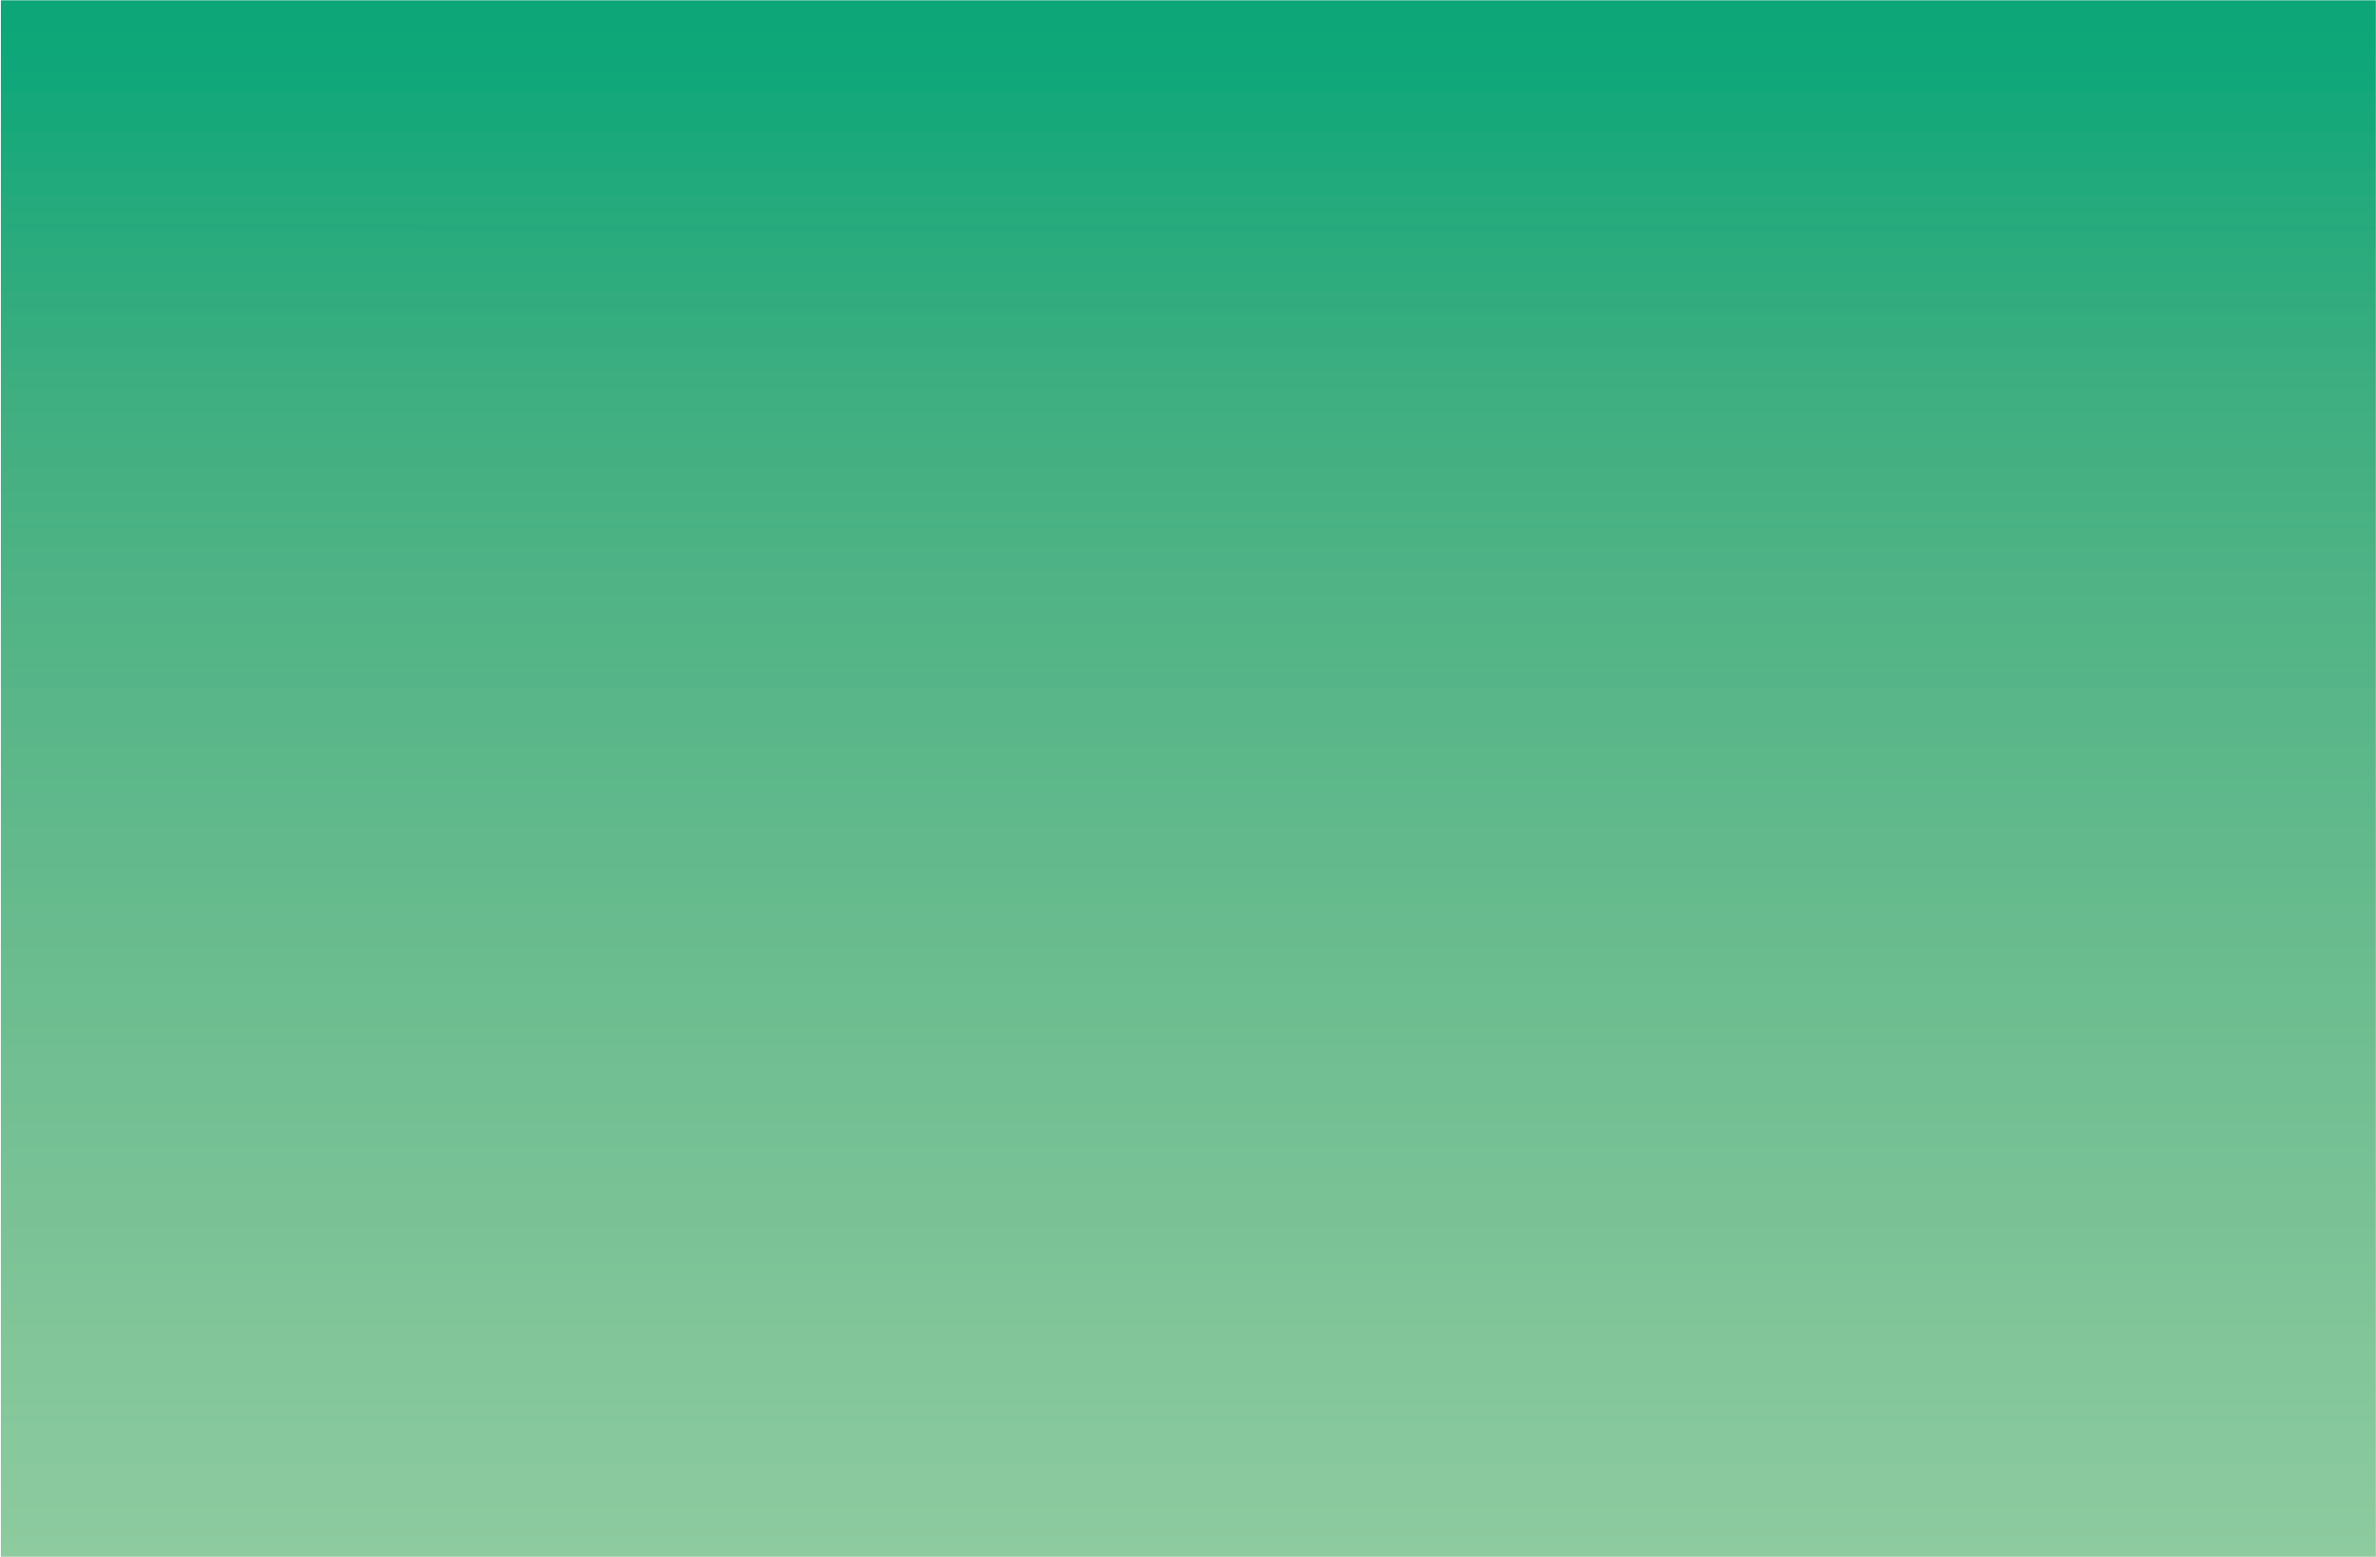
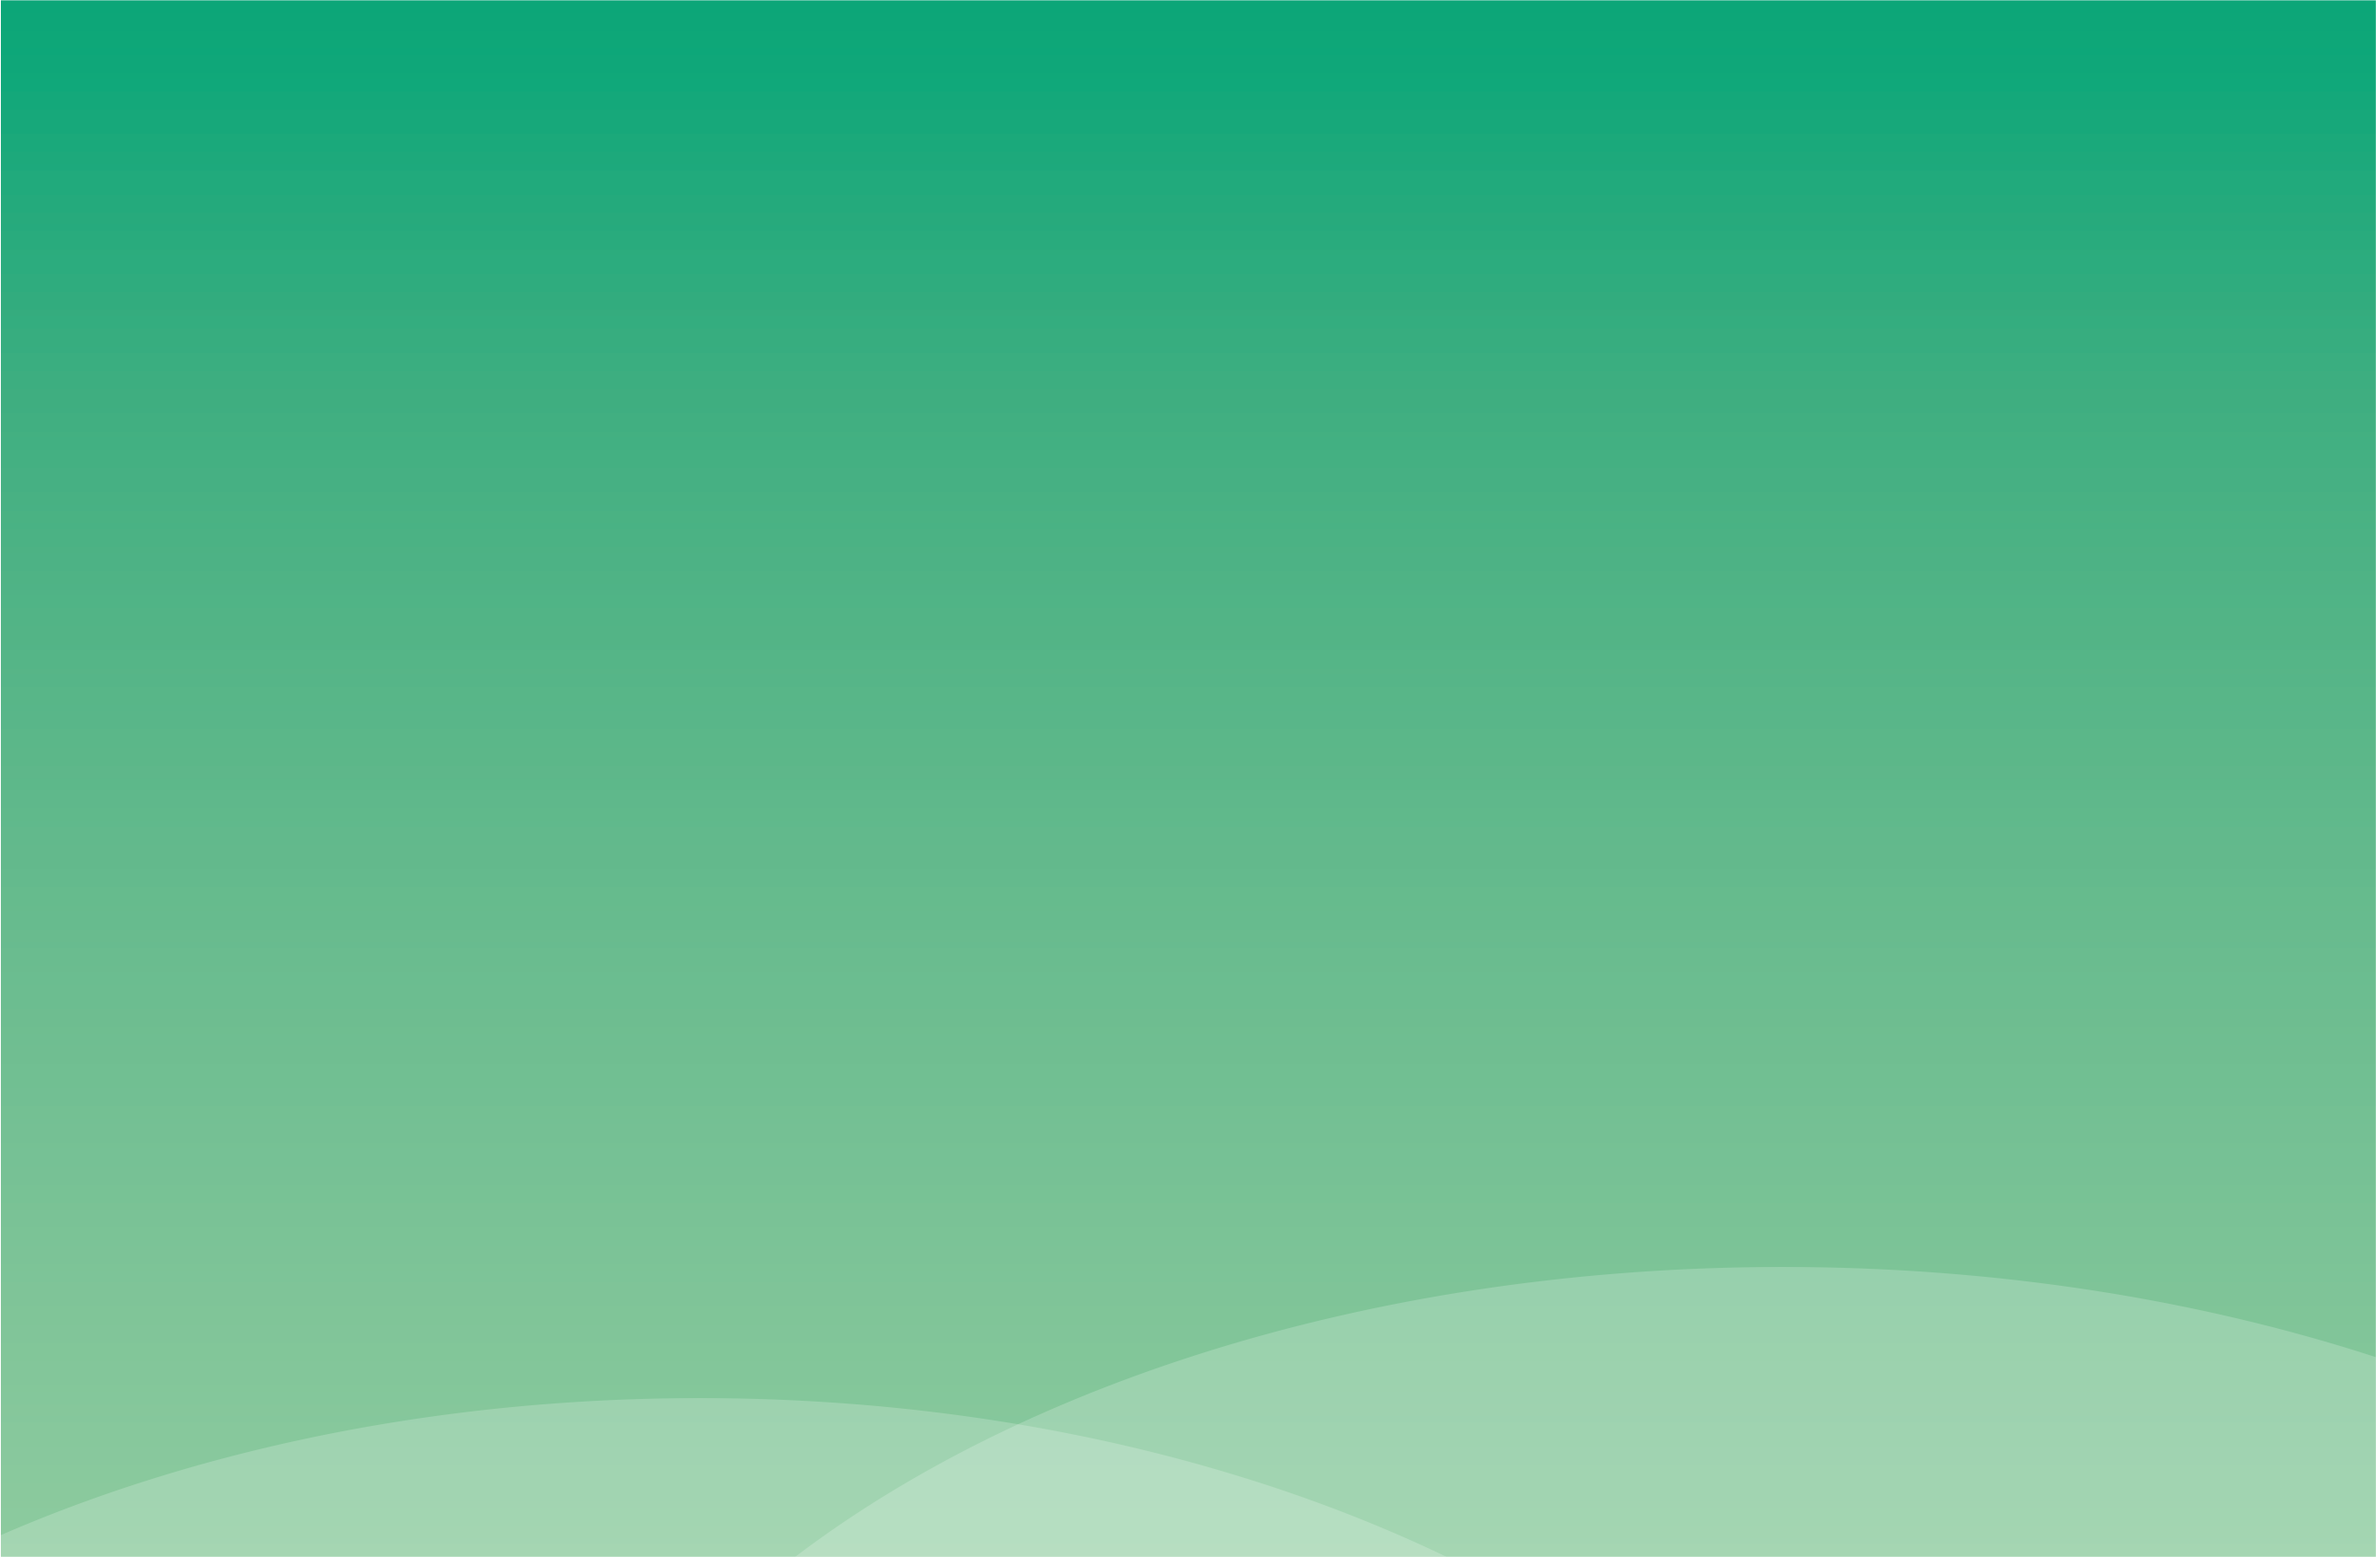
'修改康佳冰箱京东微联H5页面符合京东微联H5规范'

Changed region(s): [[0.3098, 0.8097, 1.0, 1.0], [0.2788, 0.872, 0.3098, 0.9031]]

diff --git a/css/vue-stone.css b/css/vue-stone.css
@@ -1,2 +1,2 @@
[2 lines of base64/hex data omitted]
 /*# sourceMappingURL=vue-stone.css.map*/

diff --git a/index.html b/index.html
@@ -27,7 +27,8 @@
 
 <style>
   body {
-    font-size: 16px;
+    font-size: 14px;
+    overflow: auto;
   }
 </style>
 
@@ -39,30 +40,32 @@
       <ul>
         <li>
           <p class="transparent-font">冷藏室℃</p>
-          <span class="header-index">{{coldRoomValue}}</span>
+          <span>{{coldRoomValue}}</span>
         </li>
         <li>
           <p class="transparent-font">空气质量</p>
-          <div class="air-quality" v-if="status === 'green'">清新</div>
-          <div class="air-quality" v-if="status === 'orange'">良好</div>
-          <div class="air-quality" v-if="status === 'red'">异常</div>
+          <div v-if="status === 'green'">清新</div>
+          <div v-if="status === 'orange'">良好</div>
+          <div v-if="status === 'red'">异常</div>
         </li>
         <li>
           <p class="transparent-font">环温℃</p>
-          <span class="header-index">{{ambientTemperature}}</span>
+          <span>{{ambientTemperature}}</span>
         </li>
       </ul>
       <div class="air-freshness-index">
         空气清新指数: {{airFreshnessIndex}}
       </div>
     </header>
-    <div slot="header" class="c-panel-header u-cross-center mode-title gray_bg" v-if="warn">
-      <div class="c-panel-title">
-        <img class="warn" src="./img/warn.png" />冰箱门未关</div>
+    <div slot="header" class="c-panel-header u-cross-center" v-if="warn">
+      <div class="c-panel-title font-14">
+        <img class="warn" src="./img/warn.png" />冰箱门未关
+      </div>
     </div>
     <!--冷藏室温度设置-->
     <div slot="body" class="c-panel-body row-2 u-cross-center border-bottom-gray">
-      <div slot="title" class="c-panel-title ">冷藏室温度设置
+      <div slot="title" class="c-panel-title">
+        <div class="cold-room-setting">冷藏室温度设置</div>
         <div class="cold-room-index" :class="status+'-font'">
           {{ coldRoomValue }}
           <span class="celsius">℃</span>
@@ -76,7 +79,7 @@
         <div slot="title" class="c-panel-title">云离子杀菌</div>
         <v-switch slot="main" v-model="isSterilization" ref="sterilizationDom" :class="status"></v-switch>
       </div>
-      <div slot="body" class="padding-0-12">
+      <div slot="body" class="c-panel-body row-3 u-cross-center padding-0-12">
         <v-range slot="main" ref="rangeArray" v-model="range_data_array.value" :is_step="range_data_array.isStep" :dots="range_data_array.dots"
           :class="{[status]: isSterilization}">
         </v-range>
@@ -92,18 +95,19 @@
         <div class="wjx-mode-item border-right-gray" :class="{[status + '-background']: modeValue === 'quickCooling'}" @click='changeMode("quickCooling")'>
           <div>
             <div class="mode-icon" :class="{[modeValue === 'quickCooling' ? 'quick-cooling-icon-active': 'quick-cooling-icon']: true}"></div>
-            <p>速冷模式</p>
+            <p class="gray_font" :class="{active: modeValue === 'quickCooling'}">速冷模式</p>
           </div>
         </div>
-        <div class="wjx-mode-item border-right-gray" :class="{[status + '-background']: modeValue === 'energySaving'}" @click='changeMode("energySaving")'>
+        <div class="wjx-mode-item border-left-gray" :class="{[status + '-background']: modeValue === 'energySaving'}" @click='changeMode("energySaving")'>
           <div>
             <div class="mode-icon" :class="{[modeValue === 'energySaving' ? 'energy-saving-icon-active' : 'energy-saving-icon']: true}"></div>
-            <p>节能模式</p>
+            <p class="gray_font" :class="{active: modeValue === 'energySaving'}">节能模式</p>
           </div>
         </div>
       </div>
     </div>
-  </div>
+    <div class="row-2 gray_bg"></div>
+  </span>
   <script src="js/vue.min.js"></script>
   <script src="js/vue-stone.js"></script>
   <script type="text/javascript" src="js/jquery.js"></script>
@@ -171,8 +175,8 @@
           this.range_data_array.value = { value: 3, text: '弱' }
           self.controlDevice({
             "command": [{
-              "stream_id": "NegativeIonFunction",//启动
-              "current_value": value ? 1 : 0
+              "stream_id": "PurificationModuleMode",//启动
+              "current_value": value ? 0 : 4
             }]
           }, function (suc) {
           });
@@ -222,12 +226,21 @@
           });
         },
         showButton: function (flag) {//配置导航按钮隐藏显示
-          JDSMART.app.config(
-            {
-              showBack: flag,
-              showShare: flag,
-              showMore: flag
-            });
+          let color = '#45d69a';
+          switch (this.status) {
+            case 'green': color = '#45d69a'
+              break;
+            case 'orange': color = '#ff9166'
+              break;
+            case 'red': color = '#ef7070'
+              break;
+          }
+          JDSMART.app.config({
+            showBack: flag,
+            showShare: flag,
+            showMore: flag,
+            color: color,
+          });
         },
         //获取设备初始化数据
         getInitData: function () {
@@ -293,14 +306,14 @@
             }
             //环境传感器温度值
             if (val["stream_id"] == "EnvironmentalSensorTemperature") {
-              self.ambientTemperature = val["current_value"];
+              self.ambientTemperature = parseInt(val["current_value"]) - 80;
             }
             //杀菌是否启动
-            if (val["stream_id"] == "NegativeIonFunction") {
-              if (val["current_value"] == 1) {
-                self.isSterilization = true;
-              } else {
+            if (val["stream_id"] == "PurificationModuleMode") {
+              if (val["current_value"] == 4) {
                 self.isSterilization = false
+              } else {
+                self.isSterilization = true
               }
             }
             //开启杀菌
@@ -329,6 +342,7 @@
             }
           });
           self.warn = !closeDoor;
+          this.showButton(true)
         },
         controlDevice: function (command, callback) {
           JDSMART.io.controlDevice(      //控制设备接口：如开关

diff --git a/css/style.css b/css/style.css
@@ -6,14 +6,14 @@ body,h1,h2,h3,h4,h5,h6,hr,p,blockquote,dl,dt,dd,ul,ol,li,pre,form,fieldset,legen
 i,em{font-style:normal}
 ol,ul,li{list-style:none; margin:0; padding:0}
 input,select,button,h1,h2,h3,h4,h5,h6{font-size:100%; font-weight:normal}
-body{margin:0 auto; min-width:320px; max-width:768px; background:#ffffff;font-size:14px;font-family:Helvetica,STHeiti STXihei, Microsoft JhengHei, Microsoft YaHei, Arial;line-height:1.5;color:#333;-webkit-text-size-adjust:100% !important;-webkit-user-select:none;user-select:none;}
+body{margin:0 auto; min-width:320px; max-width:768px; background:#EFEFEF;font-size:14px;font-family:"冬青黑体简体中文 W3"!important;line-height:1.5;color:#333;-webkit-text-size-adjust:100% !important;-webkit-user-select:none;user-select:none;}
 img{ width:100%; height:auto;border:none; interpolation-mode: bicubic;border:0;vertical-align:top}
 .txt-center{ text-align:center;}
 .txt-justify{ text-align:justify; text-justify:inter-ideograph;}
 a,button,input,i{-webkit-tap-highlight-color:rgba(0,0,0,0); -moz-tap-highlight-color:rgba(0,0,0,0); -ms-tap-highlight-color:rgba(0,0,0,0);tap-highlight-color:rgba(0,0,0,0); padding:0; margin:0; font-weight:normal;} 
 
 .blue{ color:#0096d6}
-header{ position:relative;position:relative; overflow: hidden; color: #fff; z-index:9; text-align:center; padding: 3% 0}
+header{ position:relative; overflow: hidden; color: #fff; z-index:9; text-align:center; background-repeat: no-repeat;background-size: 100%;background-position-y: 100%;}
 
 header .temperabox{width:80%; margin: auto; overflow: hidden; border-radius: 50%;}
 header .cur_tempera{ width: 100px; padding:6% 8%; margin: auto; border-radius: 12px 12px 0 0; line-height: normal;
@@ -23,14 +23,19 @@ background-image: -moz-linear-gradient(top, rgba(255, 255, 255, 0.2), rgba(255, 
 background-image: linear-gradient(to bottom, rgba(255, 255, 255, 0.2), rgba(255, 255, 255, 0));}
 
 header .cur_tempera span{ font-size: 52px;}
-header ul{ overflow: hidden; padding: 2% 5%;}
+header ul{ overflow: hidden; padding: 0 0.02rem;}
 header ul li{ float: left; width: 33.333%; font-size: 13px; text-align: center;}
-header ul li span{ font-size: 28px;}
-header ul li div{ font-size: 28px;margin-top: .17rem;border-left: 1px solid #fff;border-right: 1px solid #fff}
-header ul li p{ margin-top: 15px; margin-bottom: 15px; font-size: 14px;}
+header ul li span{ font-size: .41rem;}
+header ul li div{ font-size: .36rem;border-left: 1px solid #fff;border-right: 1px solid #fff; padding-top: .035rem}
+header ul li p{ margin-top: .13rem; margin-bottom: .09rem; font-size: 14px;}
 header dl{ width:44%; position:absolute; top:50%; margin-top:-24px; color:#fff; text-align:center; right:0; font-size:20px;}
-header dl dd span{ font-size:24px;}
 /* 默认样式 */
+#app {
+    margin: 0;
+}
+.value {
+    font-size: .41rem;
+}
 .c-range-slider-process {
     background-color: #ccc;
 }
@@ -44,6 +49,16 @@ header dl dd span{ font-size:24px;}
     width: .06rem;
     height: .06rem;
     background: #ccc;
+}
+.gray_font {
+    color: #b7b7b7;
+    font-size: .12rem;
+}
+.gray_font.active {
+    color: #ffffff
+}
+.font-14 {
+    font-size: 0.14rem;
 }
 /* 绿色样式 */
 .green-font {
@@ -127,11 +142,11 @@ header dl dd span{ font-size:24px;}
     background: #ef7070;
 }
 /**绿色**/
-header.green_bg{ background: url('../img/green_bg.png') no-repeat;background-size: 100%}
+header.green_bg{ background-image: url('../img/green_bg.png');}
 /**橙色**/
-header.orange_bg{ background: url('../img/orange_bg.png') no-repeat;background-size: 100%}
+header.orange_bg{ background-image: url('../img/orange_bg.png')}
 /**红色**/
-header.red_bg{ background: url('../img/red_bg.png') no-repeat;background-size: 100%}
+header.red_bg{ background-image: url('../img/red_bg.png')}
 .transparent-font {
     color: rgba(255,255,255,0.7)
 }
@@ -139,25 +154,30 @@ header.red_bg{ background: url('../img/red_bg.png') no-repeat;background-size: 1
     width: 40%;
     border: 2px solid #fff;
     border-radius: 25px;
-    margin: 15px auto;
+    margin: .26rem auto;
+    font-size: .12rem;
+    height: .22rem;
+    line-height: .22rem;
+}
+.cold-room-setting {
+    font-size: .12rem;
+    color: #666666;
 }
 .cold-room-index {
-    margin-top: 10px;
     margin-left: .2rem;
     font-size: 30px;
 }
 .border-bottom-gray {
-    border-bottom: 2px solid #EFEFEF;
-}
-.header-index {
-    font-size: .3rem;
+    border-top: .05rem solid #EFEFEF;
+    border-left: .04rem solid #EFEFEF;
+    border-right: .04rem solid #EFEFEF;
 }
 .gray_bg {
     background: #eee;
 }
 .warn {
     width: .2rem;
-    margin-right: .02rem;
+    margin-right: .03rem;
 }
 .celsius {
     font-size: 12px;
@@ -172,7 +192,7 @@ header.red_bg{ background: url('../img/red_bg.png') no-repeat;background-size: 1
 }
 /* 云离子杀菌 */
 .sterilization {
-    border-bottom: 0px;
+    color: #333333;
 }
 .padding-0-12 {
     padding: 0 .12rem;
@@ -189,7 +209,7 @@ header.red_bg{ background: url('../img/red_bg.png') no-repeat;background-size: 1
 }
 .wjx-mode-item {
     width: 50%;
-    height: .8rem;
+    height: .78rem;
     display: flex;
     justify-content: center;
     align-items: center;
@@ -204,8 +224,11 @@ header.red_bg{ background: url('../img/red_bg.png') no-repeat;background-size: 1
     background-repeat: no-repeat;
     margin: 0 auto .05rem;
 }
+.border-left-gray {
+    border-left: .01rem solid #eee;
+}
 .border-right-gray {
-    border-right: 1px solid #eee;
+    border-right: .01rem solid #eee;
 }
 .quick-cooling-icon {
     background-image: url('../img/home_ic_cold_gray.png');
@@ -223,7 +246,6 @@ header.red_bg{ background: url('../img/red_bg.png') no-repeat;background-size: 1
     width: 95%;
     height: .5rem;
     position: absolute;
-    margin-top: -0.7rem;
     z-index: 100;
 }
 @media (max-width:375px){}
